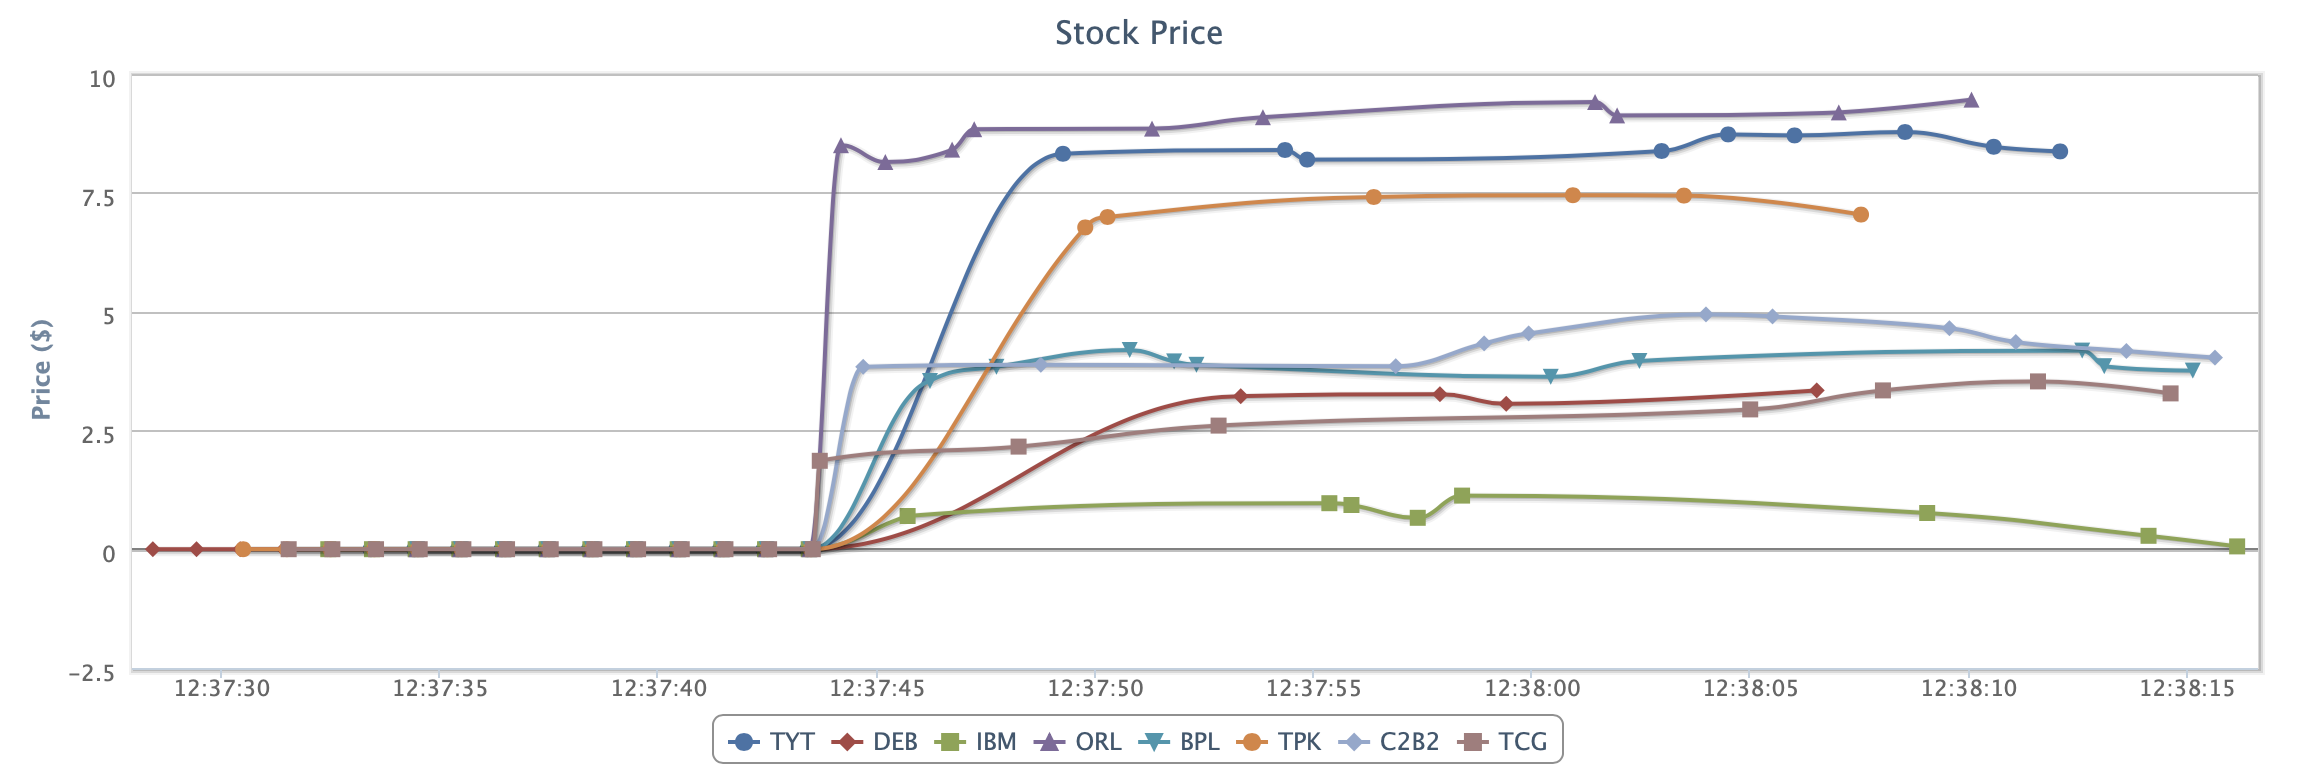
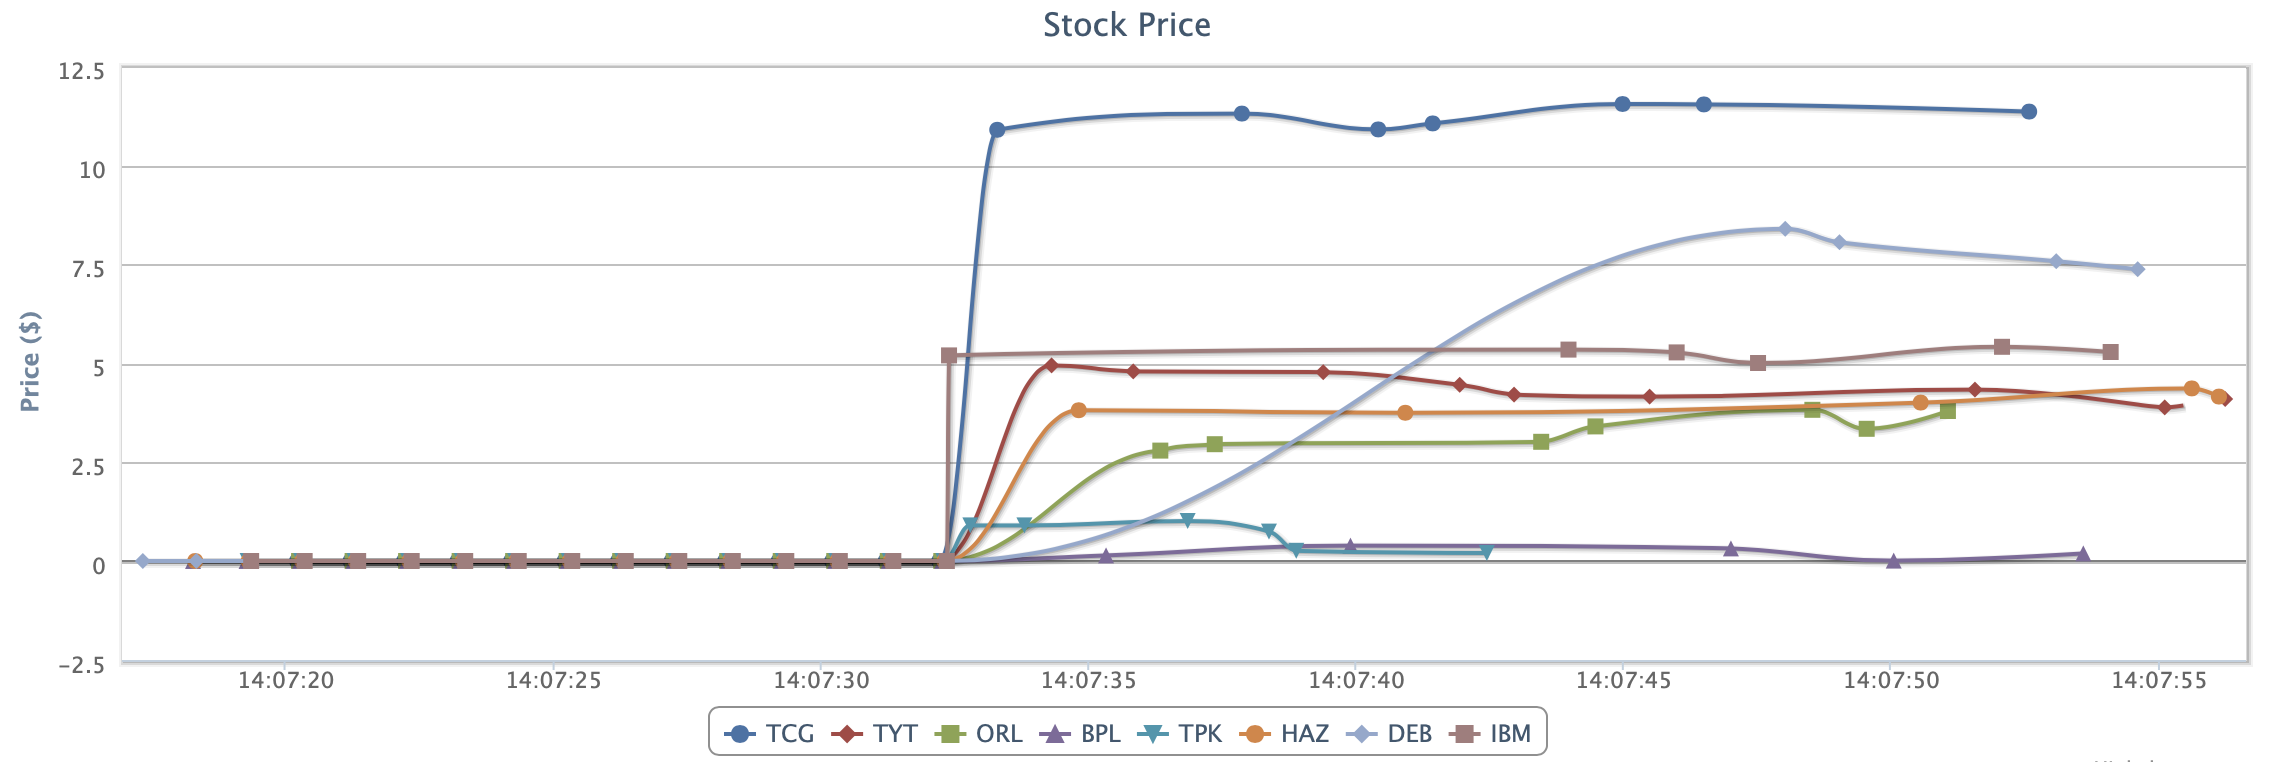
updated images

diff --git a/hazelcast-cluster/src/test/java/test/StockMapEntryListenerTest.java b/hazelcast-cluster/src/test/java/test/StockMapEntryListenerTest.java
@@ -32,7 +32,7 @@ public class StockMapEntryListenerTest {
 	final static Random random = new Random();
 
 	final static LinkedHashMap<String, StockRecord> stockMap = new LinkedHashMap<String, StockRecord>() {{
-		put("C2B2", new StockRecord("C2B2", "C2B2 Consulting Limited", roundResult(new BigDecimal(generateInitialPrice()))));
+		put("HAZ", new StockRecord("HAZ", "Hazelcast", roundResult(new BigDecimal(generateInitialPrice()))));
 		put("TPK", new StockRecord("TPK", "Travis Perkins Limited", roundResult(new BigDecimal(generateInitialPrice()))));
 		put("ORL", new StockRecord("ORL", "Oracle", roundResult(new BigDecimal(generateInitialPrice()))));
 		put("BPL", new StockRecord("BPL", "British Petroleum", roundResult(new BigDecimal(generateInitialPrice()))));
